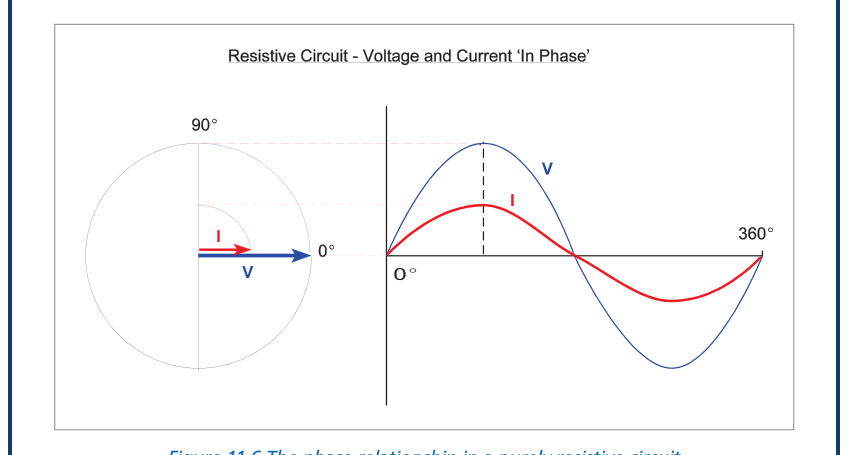
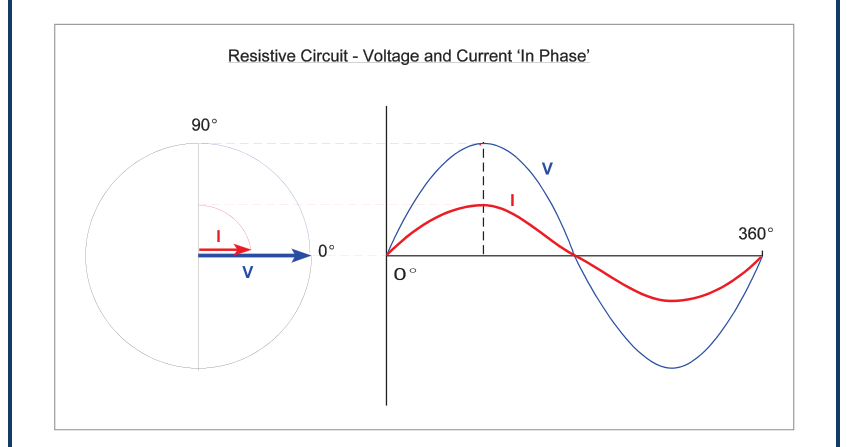
Electrics ch11 (AC generation & properties): 14 figure notes + AC block

diff --git a/frontend/src/app/data/aircraft-technical-figure-notes.ts b/frontend/src/app/data/aircraft-technical-figure-notes.ts
@@ -461,6 +461,16 @@ export const FIGURE_NOTES: Record<string, string[]> = {
     "A variable capacitor (arrow through it) can be adjusted by the user; a preset is set once on installation and then left.",
     "Recognising these lets you read a circuit and, importantly, spot a polarised capacitor that must go in the right way round.",
   ],
+  "elecfig-ch11_10": [
+    "This shows a capacitor charging and discharging over time. When first connected, a big current flows to charge the plates, but the voltage across the capacitor starts at zero and climbs; as it charges, the current falls away and the voltage levels off at the supply value.",
+    "When the capacitor is then discharged into a resistor, the current flows the other way and both current and voltage decay back towards zero.",
+    "The curves are exponential: charge/discharge is fast at first then slows. How fast depends on the resistance and capacitance (the 'time constant' R × C).",
+  ],
+  "elecfig-ch11_11": [
+    "This shows why a capacitor appears to 'pass' AC. On the first half-cycle the supply charges the plates one way; on the second half-cycle the supply reverses and charges them the other way.",
+    "So the plates are charged and discharged every half-cycle, and current keeps flowing in the wires to and from the capacitor — even though no charge ever actually crosses the dielectric.",
+    "The result: a capacitor blocks steady DC but readily passes AC, and the higher the frequency the more easily it passes (lower capacitive reactance).",
+  ],
   "elecfig-ch03_09": [
     "This shows two capacitors, C₁ and C₂, connected in series (one after the other).",
     "In series, capacitors combine like resistors in parallel: 1/C = 1/C₁ + 1/C₂, so the total capacitance is LESS than either one on its own. This is the opposite of resistors.",
@@ -715,6 +725,68 @@ export const FIGURE_NOTES: Record<string, string[]> = {
     "This is a fuller single-alternator light-aircraft system. From the bus-bar, fused feeders supply the alternator field, the starter circuit, lights and accessories (cabin light, cigar lighter), each protected by a circuit breaker of the stated rating.",
     "Key items: a master solenoid and starter solenoid switch the heavy currents; a voltage regulator and overvoltage protector control the alternator; a radio-interference capacitor suppresses noise; and an external-power solenoid/receptacle lets a ground cart power the aircraft.",
     "A master interlock battery-and-alternator switch, an ammeter and an ALT warning light complete the system — the realistic wiring behind the simpler block diagram.",
+  ],
+
+  // ─── Electrics — AC generation & properties (A.1.3) ───
+  "elecfig-ch11_01": [
+    "This shows a simple AC generator (alternator). A loop (armature) is spun in the magnetic field between the poles, and its ends connect to two continuous SLIP RINGS, each touched by a carbon brush.",
+    "Unlike the split commutator of a DC generator, the slip rings never swap the connections — so as the loop turns, the output rises, falls, reverses and rises again, giving alternating current in the load.",
+    "This is the basic machine behind all AC generation: slip rings (not a commutator) are the key to getting AC out.",
+  ],
+  "elecfig-ch11_04": [
+    "This illustrates frequency — how many complete cycles the AC goes through each second, measured in hertz (Hz). The top trace shows two cycles in one second (2 Hz); the bottom shows eight cycles in the same second (8 Hz).",
+    "A higher frequency simply means the waveform repeats more often. Aircraft AC systems commonly run at 400 Hz (far higher than the 50/60 Hz mains) because it lets transformers and motors be smaller and lighter.",
+    "Frequency is set by how fast the generator spins and how many pole-pairs it has — which is why constant-frequency AC needs a constant-speed drive.",
+  ],
+  "elecfig-ch11_05": [
+    "This labels the parts of an AC sine wave over one complete cycle (0° to 360°). The PEAK value (amplitude) is the maximum it reaches, positive and negative.",
+    "The RMS (root-mean-square) value is 0.707 × the peak; it is the 'effective' value — the DC voltage that would give the same heating. This is why AC meters read RMS, and why '115 V AC' means 115 V RMS, not peak.",
+    "One cycle is split into a positive half-cycle and a negative half-cycle; the time for one full cycle is the period, and the number of cycles per second is the frequency.",
+  ],
+  "elecfig-ch11_06": [
+    "This shows a purely RESISTIVE AC circuit. The voltage and current rise and fall exactly together — they are 'in phase', reaching their peaks and zeros at the same instants.",
+    "The phasor diagram (left) draws V and I as arrows pointing the same way (0° between them), confirming they are in step.",
+    "In a resistor, all the power delivered does useful work (heat/light) — there is no phase shift to waste any, so a resistive load has a power factor of 1.",
+  ],
+  "elecfig-ch11_07": [
+    "This shows mutual induction, the principle behind the transformer. With DC (top row), a current induces a magnetic field, but the second coil only sees a changing field — and so gets an induced current — at the instant the switch is turned ON or OFF; while the DC is steady, nothing is induced.",
+    "With AC (bottom row), the current (and its field) is changing all the time, so it continuously induces a current in the second coil, half-cycle by half-cycle.",
+    "This is why transformers work on AC but not on steady DC: they need a constantly changing field to keep inducing voltage in the second winding.",
+  ],
+  "elecfig-ch11_08": [
+    "This shows self-inductance and back-EMF. When the current in a coil changes, the coil's own changing field induces a voltage in itself that OPPOSES the change (Lenz's law) — the 'back-EMF'.",
+    "So a coil resists any change in the current through it: it is slow to let the current rise and slow to let it fall. The faster the current tries to change, the bigger the opposing back-EMF.",
+    "This opposition to changing current is inductance, and it is why an inductor passes DC easily but chokes back rapidly changing or high-frequency AC.",
+  ],
+  "elecfig-ch11_09": [
+    "This shows a purely INDUCTIVE AC circuit. Because the inductor's back-EMF opposes the change in current, the current cannot keep up with the voltage.",
+    "The result, shown in both the phasor diagram and the waveforms, is that the current LAGS the voltage by 90° (a quarter of a cycle) — the voltage peaks first, then the current.",
+    "The memory aid is 'CIVIL': in an inductor (L), V leads I — equivalently, I lags V by 90°.",
+  ],
+  "elecfig-ch11_12": [
+    "This shows a purely CAPACITIVE AC circuit. A capacitor opposes a change in voltage, so the current flows first to charge it and the voltage builds up afterwards.",
+    "The phasor diagram and waveforms show the current LEADS the voltage by 90° — the current peaks a quarter-cycle before the voltage.",
+    "The memory aid 'CIVIL' again: in a Capacitor (C), I leads V — the opposite of an inductor. This is why L and C have opposite effects and can cancel.",
+  ],
+  "elecfig-ch11_13": [
+    "This is the impedance triangle, which combines resistance and reactance. Resistance R is drawn along the base; the net reactance X (XL − XC) is drawn up the side at right angles.",
+    "The hypotenuse is the impedance Z — the total opposition to AC — found by Pythagoras: Z = √(R² + (XL − XC)²). The angle of Z is the circuit's phase angle.",
+    "Impedance (not just resistance) is what limits the current in an AC circuit: I = V ÷ Z.",
+  ],
+  "elecfig-ch11_14": [
+    "This graph shows how reactance changes with frequency. Inductive reactance XL (red) increases as frequency rises (an inductor chokes high frequencies more). Capacitive reactance XC (blue) decreases as frequency rises (a capacitor passes high frequencies more easily).",
+    "Where the two lines cross, XL = XC: this is the resonant frequency. At resonance the inductive and capacitive effects cancel, leaving only resistance, so the circuit's impedance is at a minimum (series) and current is maximum.",
+    "Resonance is used in tuning circuits — selecting one frequency (a radio station, a filter) while rejecting others.",
+  ],
+  "elecfig-ch11_15": [
+    "This shows TRUE (real) power. When voltage and current are in phase (a resistive load), multiplying them instant by instant gives a power curve (black) that is always positive.",
+    "The average of that curve is the true power, found from RMS volts × RMS amps, measured in watts (or kW). This is the power that actually does useful work.",
+    "Because both halves of the power curve are positive, energy flows steadily to the load — none is handed back to the supply.",
+  ],
+  "elecfig-ch11_17": [
+    "This shows REACTIVE power. When current is 90° out of phase with voltage (a pure inductor or capacitor), the instantaneous power curve has equal positive and negative humps.",
+    "Over a full cycle these cancel, so the average (true) power is ZERO — energy is just borrowed from the supply and handed straight back. This borrowed power is called reactive power, measured in VAR or kVAR.",
+    "Reactive power does no useful work but it still flows in the wires, so it must be managed; the ratio of true power to total (apparent) power is the power factor.",
   ],
 
   // ─── Airframes — Flight Controls: balance, tabs & trim (A.1.2) ───

diff --git a/frontend/src/app/data/aircraft-technical-notes.ts b/frontend/src/app/data/aircraft-technical-notes.ts
@@ -230,6 +230,14 @@ const NOTES: Record<string, SectionNote> = {
         "Starter-generator: one machine acts as a motor to start the engine, then is switched to act as a generator once running — saves weight on turbine aircraft.",
         "Actuators: a motor drives a reduction gear and clutch to a rotary or linear (screw-jack) output, with OPEN/CLOSE (or IN/OUT) windings, limit switches to stop at the ends, a brake coil to hold position, and a magnetic 'doll's eye' or prism indicator showing open/shut/in-transit.",
       ]},
+      { heading: "AC — generation & properties", figureTopics: ["AC — generation & properties"], points: [
+        "AC is generated by a loop spinning in a field with SLIP RINGS (not a split commutator): output rises and falls and reverses each half-turn, giving a sine wave. EMF = max × sin(angle); max when cutting flux at 90°, zero at the neutral plane.",
+        "Frequency (f) = cycles per second (Hz); aircraft AC is usually 400 Hz. Period = 1/f. Amplitude = peak value; RMS = 0.707 × peak (the DC-equivalent heating value) — meters read RMS.",
+        "Inductance opposes a CHANGE of current (back-EMF): in a pure inductor current LAGS voltage by 90°. Capacitance opposes a change of voltage: in a pure capacitor current LEADS voltage by 90°. In a pure resistor V and I are IN PHASE.",
+        "Reactance (opposition of L or C to AC): inductive XL rises with frequency, capacitive XC falls with frequency; they are equal at the RESONANT frequency. Impedance Z = √(R² + (XL−XC)²) is the total opposition.",
+        "Power: TRUE (real) power = Vrms × Irms × cos φ, in watts (only the in-phase part does work). REACTIVE power = VAR/kVAR (90° out of phase, does no work). Power factor = cos φ = true/apparent power.",
+        "Mutual induction: a changing current in one coil induces an EMF in a nearby coil — the basis of the transformer. Steady DC induces nothing once settled; only CHANGING current (AC, or switching) does.",
+      ]},
       { heading: "Distribution, protection & bonding", figureTopics: ["Distribution & bus-bars", "Circuit protection"], points: [
         "Bus-bars distribute power; essential/non-essential/battery buses allow load shedding and isolation.",
         "Fuses/circuit breakers protect by current rating; replace a fuse once with the correct rating (never higher). A trip-free CB won't reset until the fault clears.",

diff --git a/frontend/src/app/data/aircraft-technical-electrics-figures.ts b/frontend/src/app/data/aircraft-technical-electrics-figures.ts
@@ -104,4 +104,20 @@ export const ATG_ELECTRICS_FIGURES: AtgElecFigureMeta[] = [
   E("Batteries", "08_07", "Aircraft battery container & connections"),
   E("Distribution & bus-bars", "08_08", "Complete light-aircraft DC system"),
   E("Distribution & bus-bars", "08_09", "Typical single-alternator light-aircraft system"),
+
+  // ── Ch11: AC — generation & properties ──
+  E("AC — generation & properties", "11_01", "Simple AC generator (slip rings)"),
+  E("AC — generation & properties", "11_04", "Frequency — cycles per second"),
+  E("AC — generation & properties", "11_05", "AC waveform — peak, RMS & cycle"),
+  E("AC — generation & properties", "11_06", "Resistive circuit — V and I in phase"),
+  E("AC — generation & properties", "11_07", "Mutual induction (transformer principle)"),
+  E("AC — generation & properties", "11_08", "Self-inductance & back-EMF"),
+  E("AC — generation & properties", "11_09", "Inductive circuit — current lags 90°"),
+  E("Capacitors", "11_10", "Capacitor charge & discharge curves"),
+  E("Capacitors", "11_11", "Capacitor in an AC circuit"),
+  E("AC — generation & properties", "11_12", "Capacitive circuit — current leads 90°"),
+  E("AC — generation & properties", "11_13", "Impedance triangle"),
+  E("AC — generation & properties", "11_14", "Reactance vs frequency & resonance"),
+  E("AC — generation & properties", "11_15", "True (real) power"),
+  E("AC — generation & properties", "11_17", "Reactive power (VAR)"),
 ];
